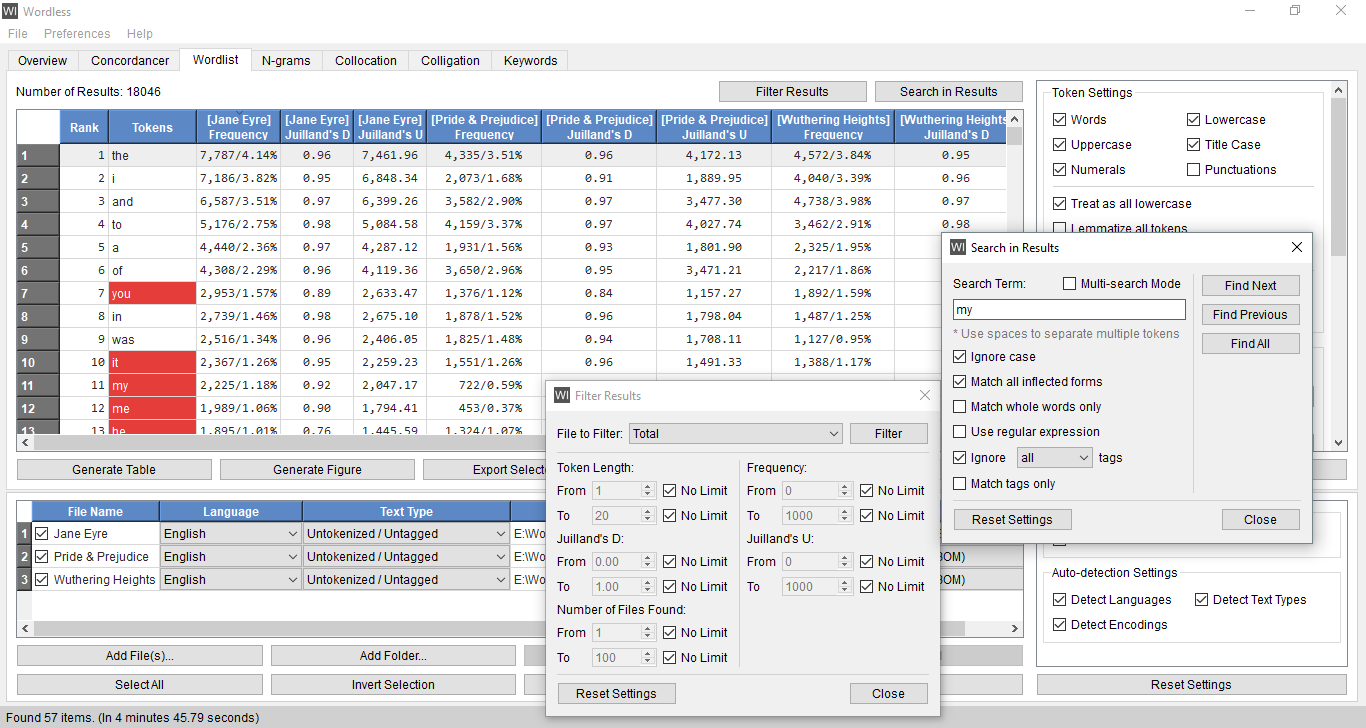
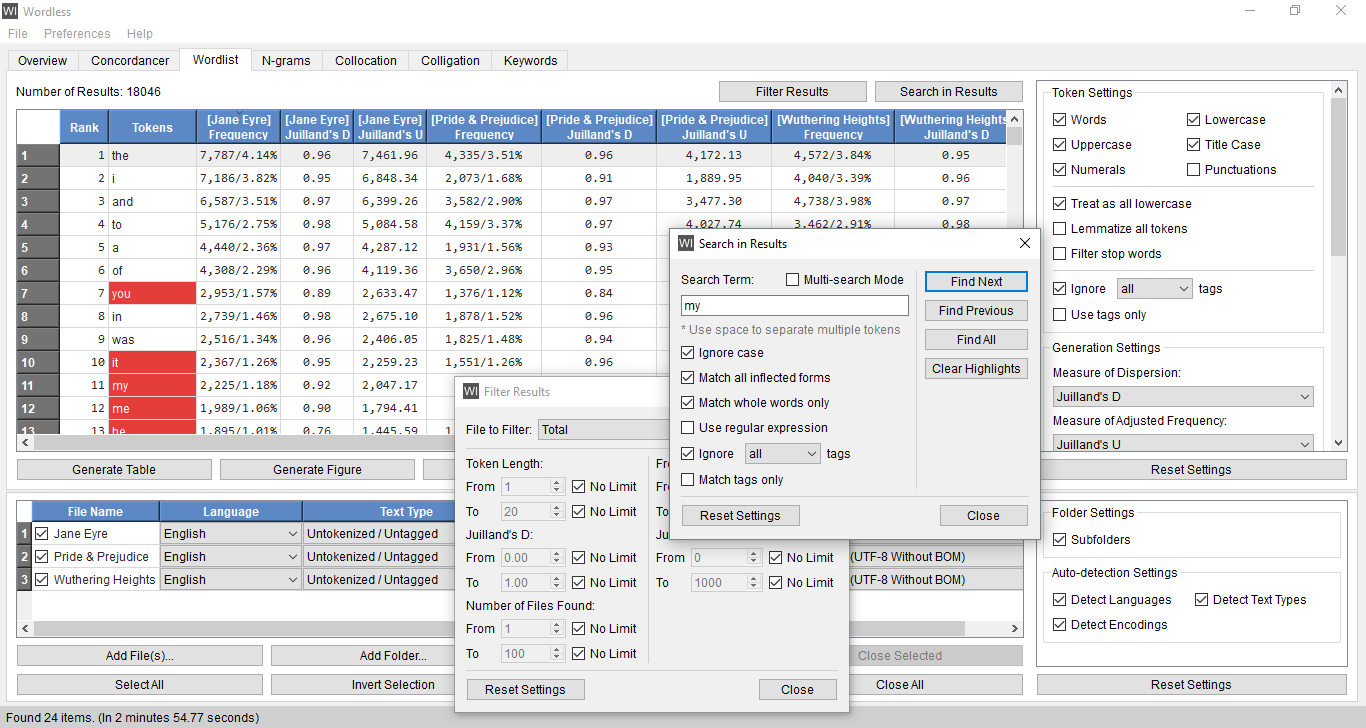
Work Area: Update Work Area - Search in Results

diff --git a/src/wordless_dialogs/wordless_dialog_search_results.py b/src/wordless_dialogs/wordless_dialog_search_results.py
@@ -116,14 +116,16 @@ class Wordless_Dialog_Search_Results(wordless_dialog.Wordless_Dialog):
         self.button_find_all = QPushButton(self.tr('Find All'), self)
         
         self.button_reset_settings = wordless_button.Wordless_Button_Reset_Settings(self)
+        self.button_clear_hightlights = QPushButton(self.tr('Clear Highlights'), self)
         self.button_close = QPushButton(self.tr('Close'), self)
 
-        self.button_find_next.setFixedWidth(100)
-        self.button_find_prev.setFixedWidth(100)
-        self.button_find_all.setFixedWidth(100)
+        self.button_find_next.setFixedWidth(105)
+        self.button_find_prev.setFixedWidth(105)
+        self.button_find_all.setFixedWidth(105)
+        self.button_clear_hightlights.setFixedWidth(105)
 
         self.button_reset_settings.setFixedWidth(120)
-        self.button_close.setFixedWidth(80)
+        self.button_close.setFixedWidth(90)
 
         self.checkbox_multi_search_mode.stateChanged.connect(self.search_settings_changed)
         self.line_edit_search_term.textChanged.connect(self.search_settings_changed)
@@ -145,6 +147,7 @@ class Wordless_Dialog_Search_Results(wordless_dialog.Wordless_Dialog):
         self.button_find_prev.clicked.connect(lambda: self.find_prev())
         self.button_find_all.clicked.connect(lambda: self.find_all())
 
+        self.button_clear_hightlights.clicked.connect(self.clear_highlights)
         self.button_close.clicked.connect(self.reject)
 
         layout_ignore_tags = wordless_layout.Wordless_Layout()
@@ -158,8 +161,9 @@ class Wordless_Dialog_Search_Results(wordless_dialog.Wordless_Dialog):
         layout_buttons_right.addWidget(self.button_find_next, 0, 0)
         layout_buttons_right.addWidget(self.button_find_prev, 1, 0)
         layout_buttons_right.addWidget(self.button_find_all, 2, 0)
+        layout_buttons_right.addWidget(self.button_clear_hightlights, 3, 0)
 
-        layout_buttons_right.setRowStretch(3, 1)
+        layout_buttons_right.setRowStretch(4, 1)
 
         layout_buttons_bottom = wordless_layout.Wordless_Layout()
         layout_buttons_bottom.addWidget(self.button_reset_settings, 0, 0)
@@ -192,11 +196,6 @@ class Wordless_Dialog_Search_Results(wordless_dialog.Wordless_Dialog):
         self.main.wordless_work_area.currentChanged.connect(self.reject)
 
         self.load_settings()
-
-    def closeEvent(self, event):
-        self.clear_highlights()
-
-        event.accept()
 
     def load_settings(self, defaults = False):
         if defaults:

diff --git a/src/wordless_dialogs/wordless_dialog_misc.py b/src/wordless_dialogs/wordless_dialog_misc.py
@@ -60,7 +60,7 @@ class Wordless_Dialog_Progress_Add_Files(Wordless_Dialog_Progress):
         
         self.label_processing.set_text(self.tr('''
             <div>
-                Please wait while files are being loaded. It may take a few seconds to several minutes depending on the total size of the files to be loaded.
+                Please wait while files are being loaded. It may take a few seconds to several minutes depending on the total size of all files to be loaded.
             </div>
         '''))
 
@@ -74,7 +74,7 @@ class Wordless_Dialog_Progress_Process_Data(Wordless_Dialog_Progress):
         
         self.label_processing.set_text(self.tr('''
             <div>
-                Please wait while data is being processed. It may take a few seconds to several minutes depending on the total size of the selected files.
+                Please wait while data is being processed. It may take a few seconds to several minutes depending on the total size of all selected files.
             </div>
         '''))
 

diff --git a/src/wordless_dialogs/wordless_dialog_help.py b/src/wordless_dialogs/wordless_dialog_help.py
@@ -182,14 +182,14 @@ class Wordless_Dialog_Acks(wordless_dialog.Wordless_Dialog_Info):
 
             [
                 '<a href="https://spacy.io/">spaCy</a>',
-                '2.1.0a12',
+                '2.1.0a13',
                 'Matthew Honnibal, Ines Montani',
                 '<a href="https://github.com/explosion/spaCy/blob/master/LICENSE">MIT</a>'
             ],
 
             [
                 '<a href="https://github.com/undertheseanlp/underthesea">Underthesea</a>',
-                '1.1.11',
+                '1.1.14',
                 'Vu Anh',
                 '<a href="https://github.com/undertheseanlp/underthesea/blob/master/LICENSE">GPL-3.0</a>'
             ]

diff --git a/src/wordless_widgets/wordless_widgets.py b/src/wordless_widgets/wordless_widgets.py
@@ -269,7 +269,7 @@ def wordless_widgets_search_settings(parent, tab):
     checkbox_multi_search_mode = QCheckBox(parent.tr('Multi-search Mode'), parent)
     line_edit_search_term = QLineEdit(parent)
     list_search_terms = wordless_list.Wordless_List_Search_Terms(parent)
-    label_separator = wordless_label.Wordless_Label_Hint(parent.tr('* Use spaces to separate multiple tokens'), parent)
+    label_separator = wordless_label.Wordless_Label_Hint(parent.tr('* Use space to separate multiple tokens'), parent)
 
     checkbox_ignore_case = QCheckBox(parent.tr('Ignore case'), parent)
     checkbox_match_inflected_forms = QCheckBox(parent.tr('Match all inflected forms'), parent)

diff --git a/README.md b/README.md
@@ -666,7 +666,7 @@ Mutual Expectation           [[29]](#doc-eng-supported-measures-works-cited-29)|
 Jaccard Index                [[25]](#doc-eng-supported-measures-works-cited-25)|![Jaccard Index](/doc/measures/effect_size/jaccard_index.gif)
 Minimum Sensitivity          [[30]](#doc-eng-supported-measures-works-cited-30)|![Minimum Sensitivity](/doc/measures/effect_size/min_sensitivity.gif)
 Poisson Collocation Measure  [[31]](#doc-eng-supported-measures-works-cited-31)|![Poisson Collocation Measure](/doc/measures/effect_size/poisson_collocation_measure.gif)
-Kilgarriff's Ratio           [[32]](#doc-eng-supported-measures-works-cited-32)|![Kilgarriff's Ratio](/doc/measures/effect_size/kilgarriffs_ratio.gif)<br>where **α** is the smoothing parameter, which is 1 by default.<br>You can change the value of **α** via **Menu → Preferences → Settings<br>→ Measures → Effect Size → Kilgarriff's Ratio → Smoothing Parameter**
+Kilgarriff's Ratio           [[32]](#doc-eng-supported-measures-works-cited-32)|![Kilgarriff's Ratio](/doc/measures/effect_size/kilgarriffs_ratio.gif)<br>where **α** is the smoothing parameter, which is 1 by default.<br>You can change the value of **α** via **Menu → Preferences → Settings → Measures<br> → Effect Size → Kilgarriff's Ratio → Smoothing Parameter**
 Odds Ratio                   [[33]](#doc-eng-supported-measures-works-cited-33)|![Odds Ratio](/doc/measures/effect_size/odds_ratio.gif)
 Log Ratio                    [[34]](#doc-eng-supported-measures-works-cited-34)|![Log Ratio](/doc/measures/effect_size/log_ratio.gif)
 Difference Coefficient       [[14]](#doc-eng-supported-measures-works-cited-14)[[35]](#doc-eng-supported-measures-works-cited-35)|![Difference Coefficient](/doc/measures/effect_size/diff_coeff.gif)
